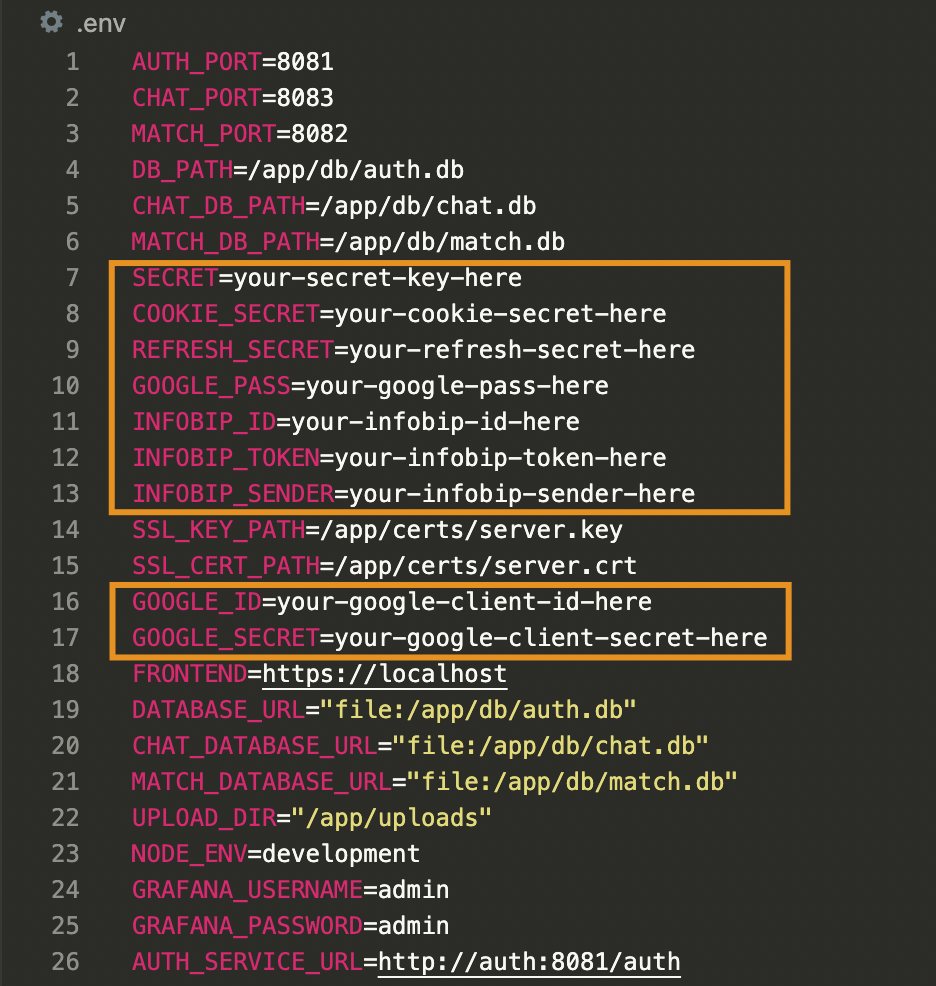
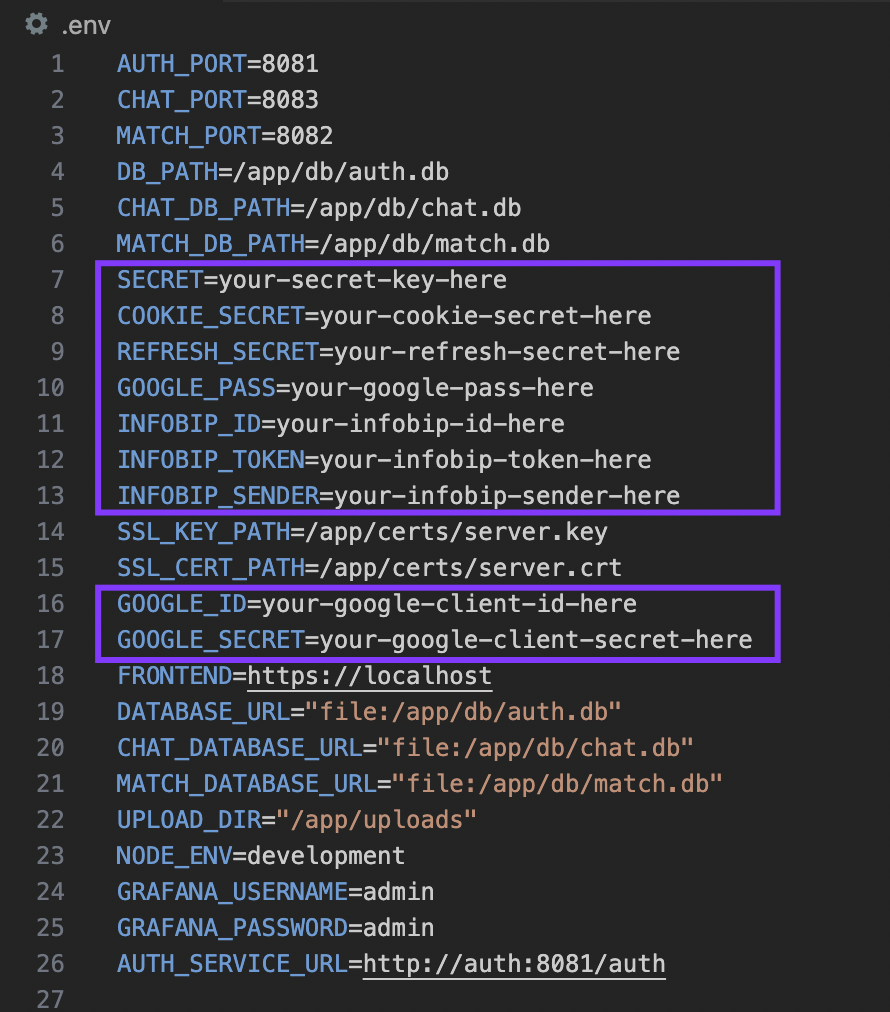
corrected the images. monokai vscode theme was awful in github.

Changed region(s): [[0.0303, 0.0, 0.8798, 1.0]]

diff --git a/README.md b/README.md
@@ -49,7 +49,7 @@ cd transcendence
 make up
 ```
 
-> 🏁 _And if everything boots correctly you should see this terminal output at the end:_
+> 🏁 _And if everything boots correctly the output should finish as follows:_
 ![makeup_succesful_output](readme_assets/makeup_success_output.png)
 
 ## 🚀 Usage
@@ -68,9 +68,10 @@ which should serve you the following main page:
 
 ### 🔑 The importance of the missing SECRETS in the .env file
 
-When you first first do `make up` you get some certificates generated (`server.crt`, `server.csr`, `server.key`) among with the following **`.env`** file:
+When you first first do `make up` this generates some certificates (`server.crt`, `server.csr`, `server.key`) and the following **`.env`** file:
 
 ![env_file](readme_assets/envfile.png)
+
 
 
 
